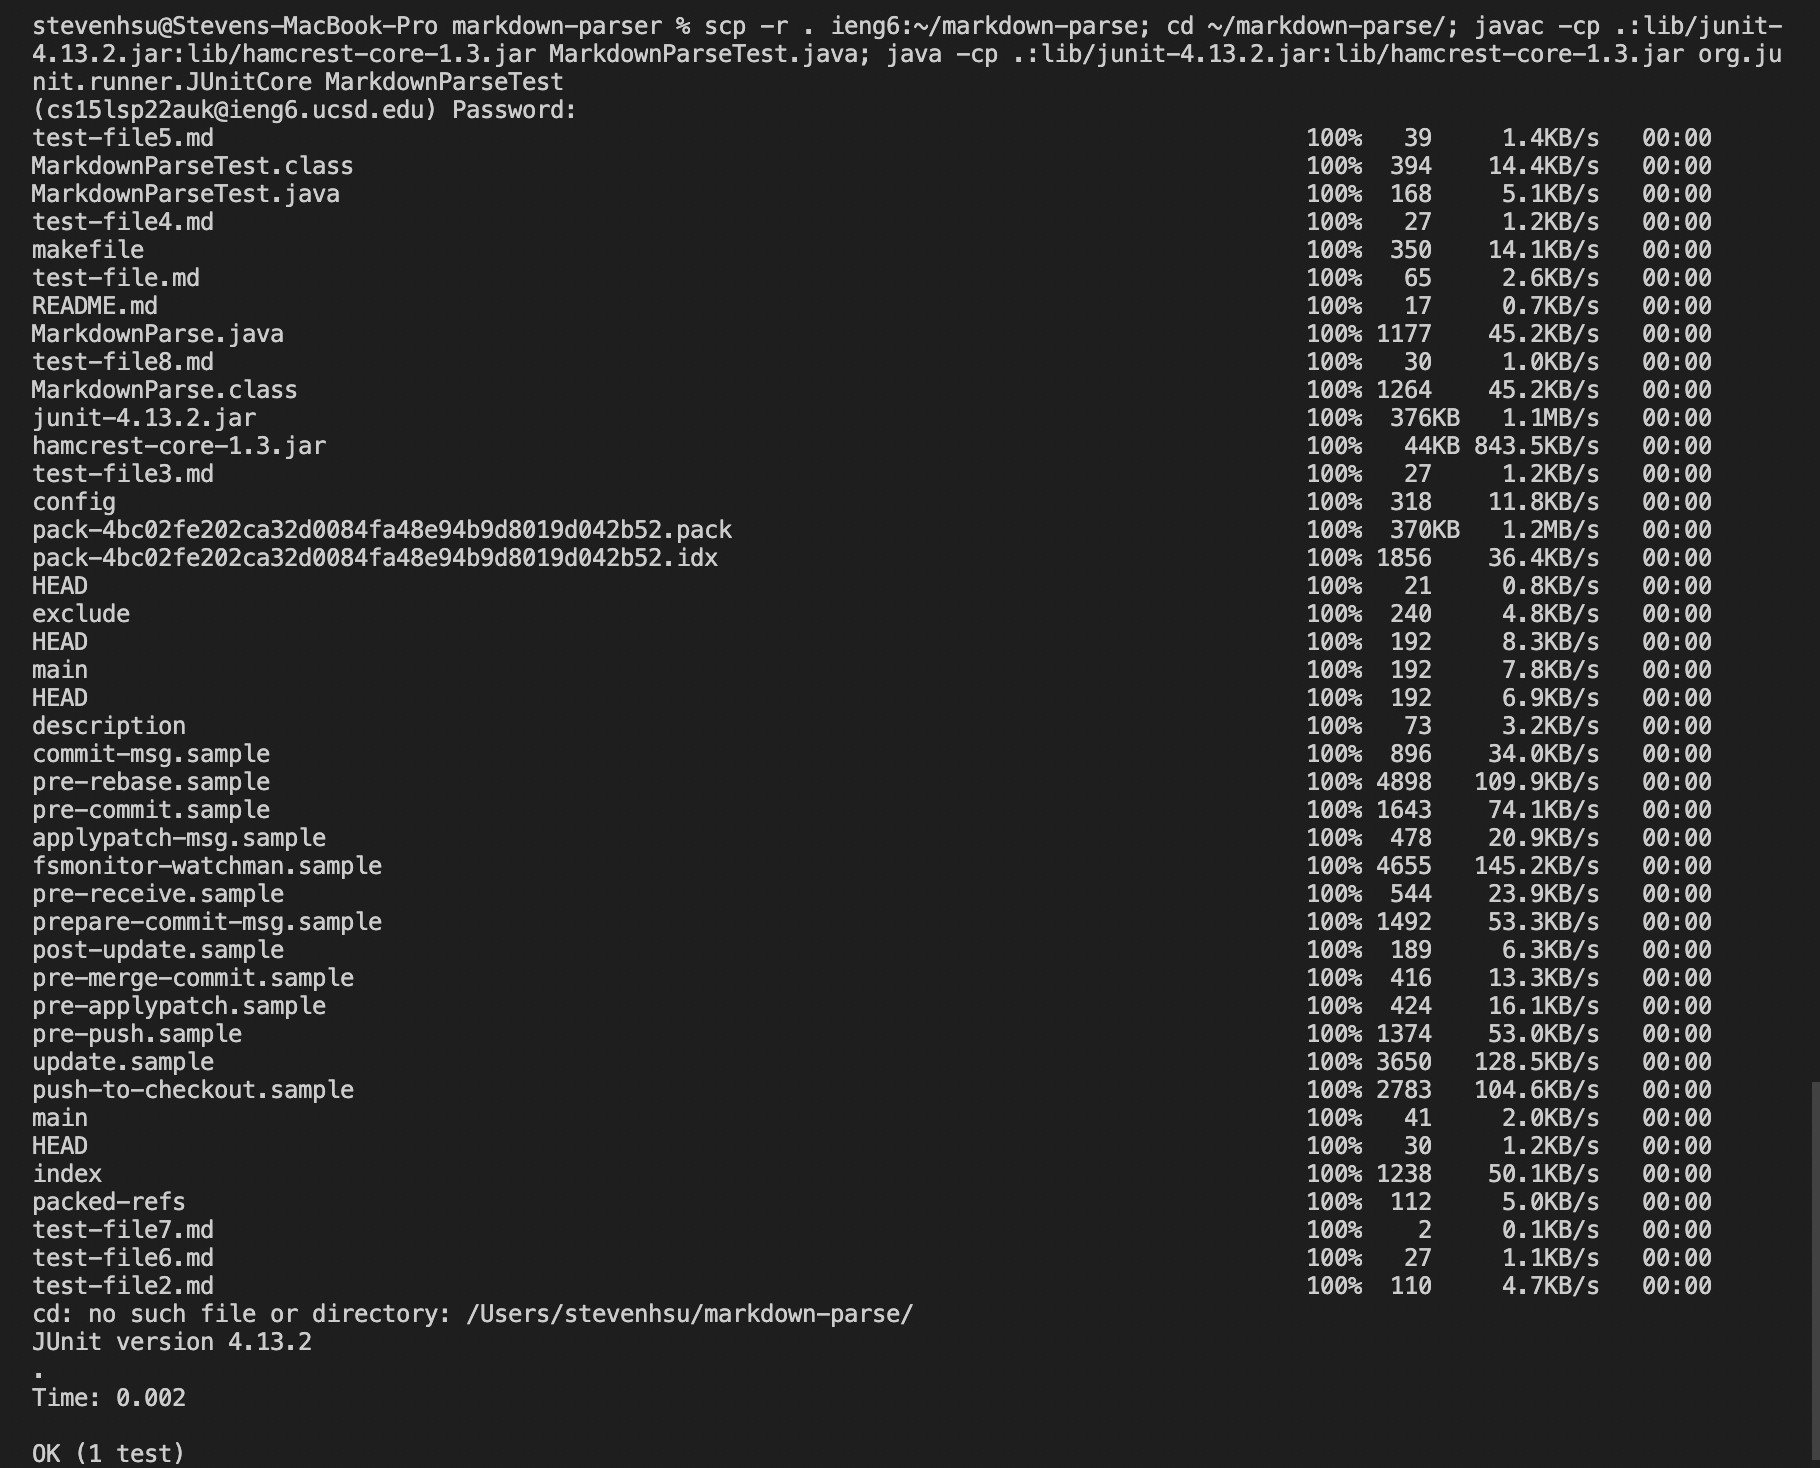
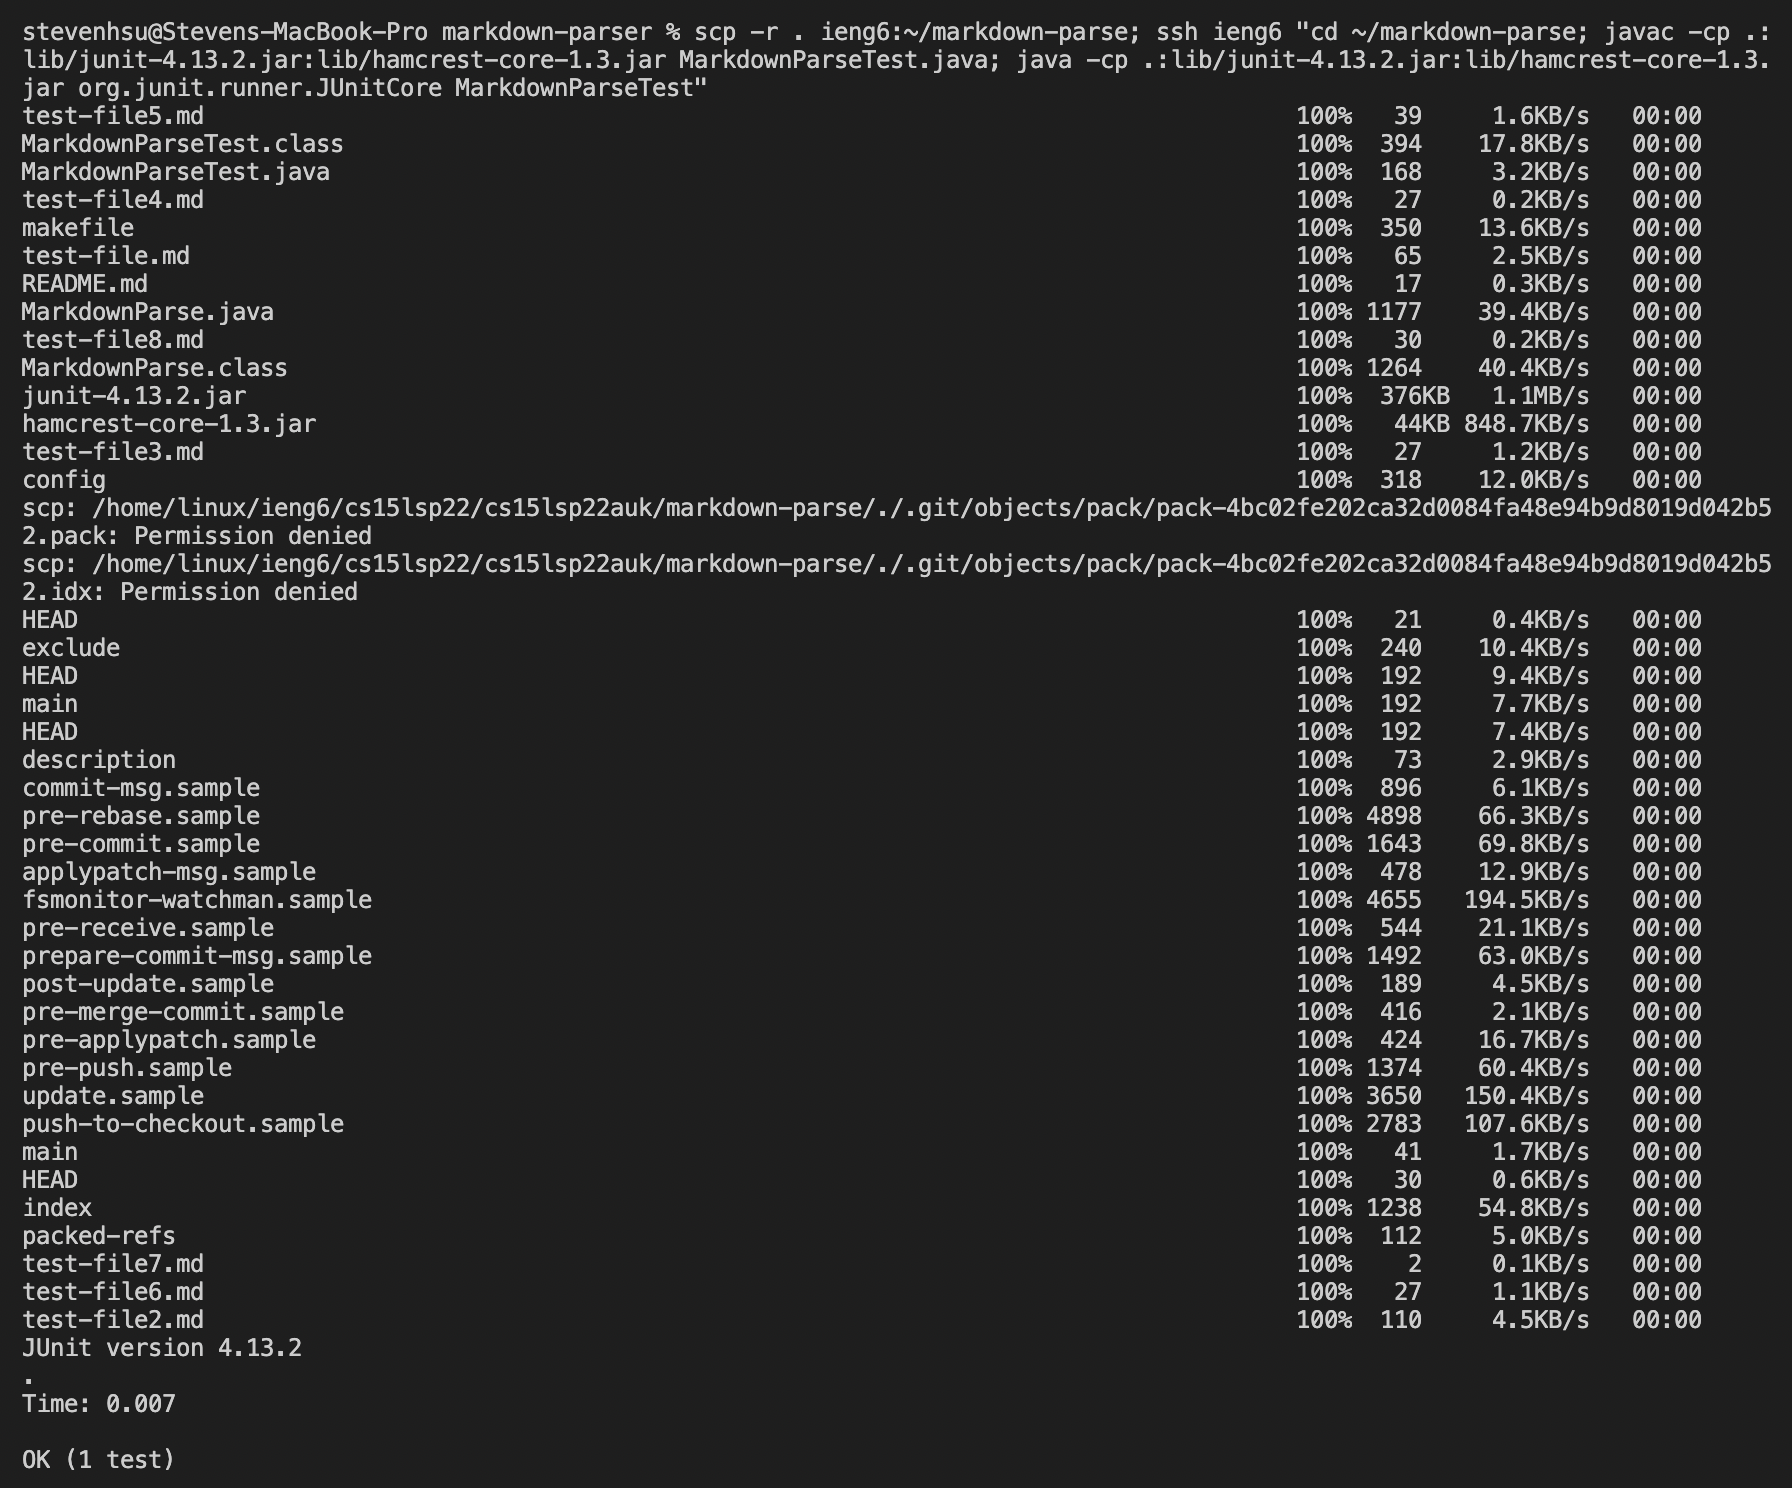
fixed lab 3 issues

Changed region(s): [[0.0, 0.0, 1.0, 1.0]]

diff --git a/lab-report-3-week-6.md b/lab-report-3-week-6.md
@@ -49,6 +49,10 @@ Then after we've established that link, we can use the normal commands of
 
 ![pic8](SSHCOMMITPUSH.png)
 
+Here is the link to the test repository:
+
+[TestRepo](https://github.com/Steven-Hsu1/TestRepo/tree/main)
+
 ---
 
 **Part 3**
@@ -67,7 +71,7 @@ Then we can run this on the remote server using the junit versions of `javac` an
 
 We can also use a singular command to both copy a directory and run it. Let's try it with markdown-parse. I'm going to use the command `rm -r . markdown-parse` to delete the entire directory off the remote computer so we can use a singular command to copy and run the tests. Here is the command:
 
-```scp -r . ieng6:~/markdown-parse; cd ~/markdown-parse/; javac -cp .:lib/junit-4.13.2.jar:lib/hamcrest-core-1.3.jar MarkdownParseTest.java; java -cp .:lib/junit-4.13.2.jar:lib/hamcrest-core-1.3.jar org.junit.runner.JUnitCore MarkdownParseTest```
+```scp -r . ieng6:~/markdown-parse; ssh ieng6 "cd ~/markdown-parse; javac -cp .:lib/junit-4.13.2.jar:lib/hamcrest-core-1.3.jar MarkdownParseTest.java; java -cp .:lib/junit-4.13.2.jar:lib/hamcrest-core-1.3.jar org.junit.runner.JUnitCore MarkdownParseTest"```
 
 Here is the run:
 
